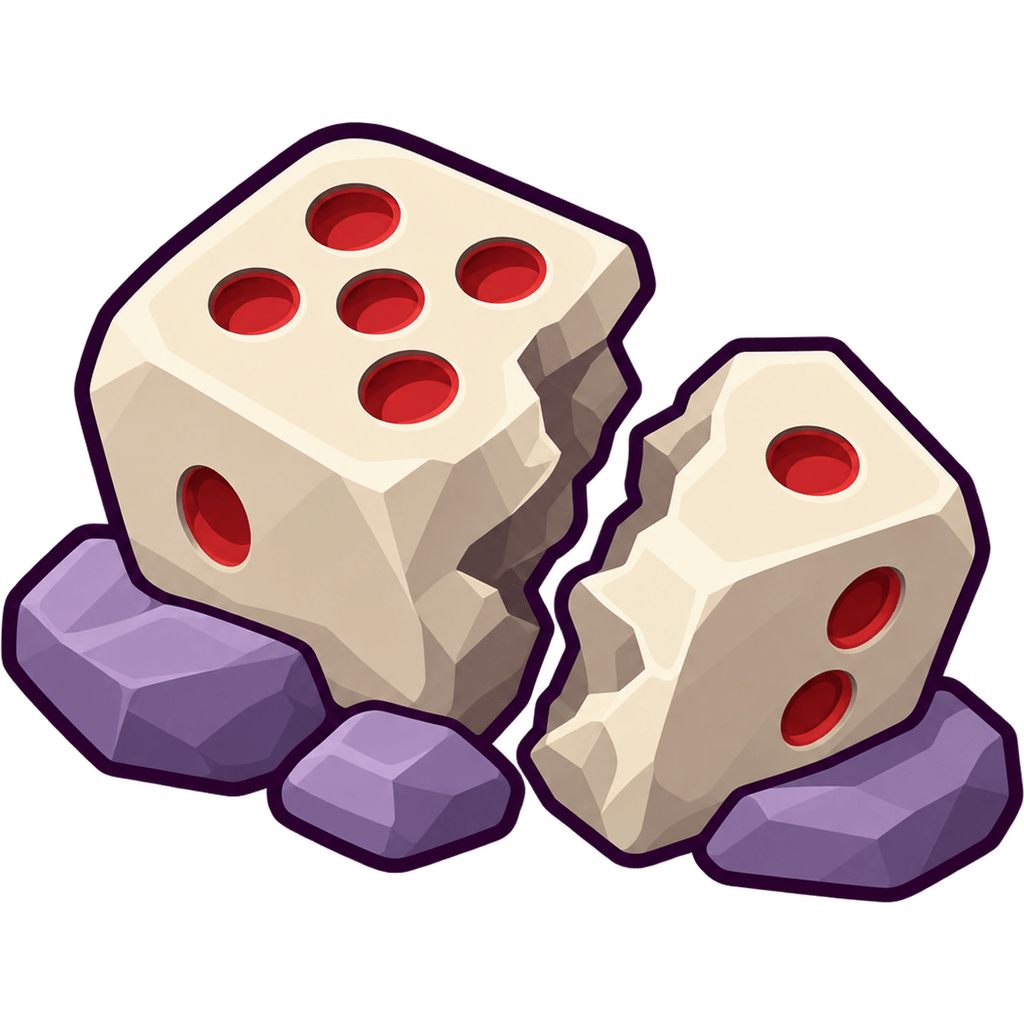
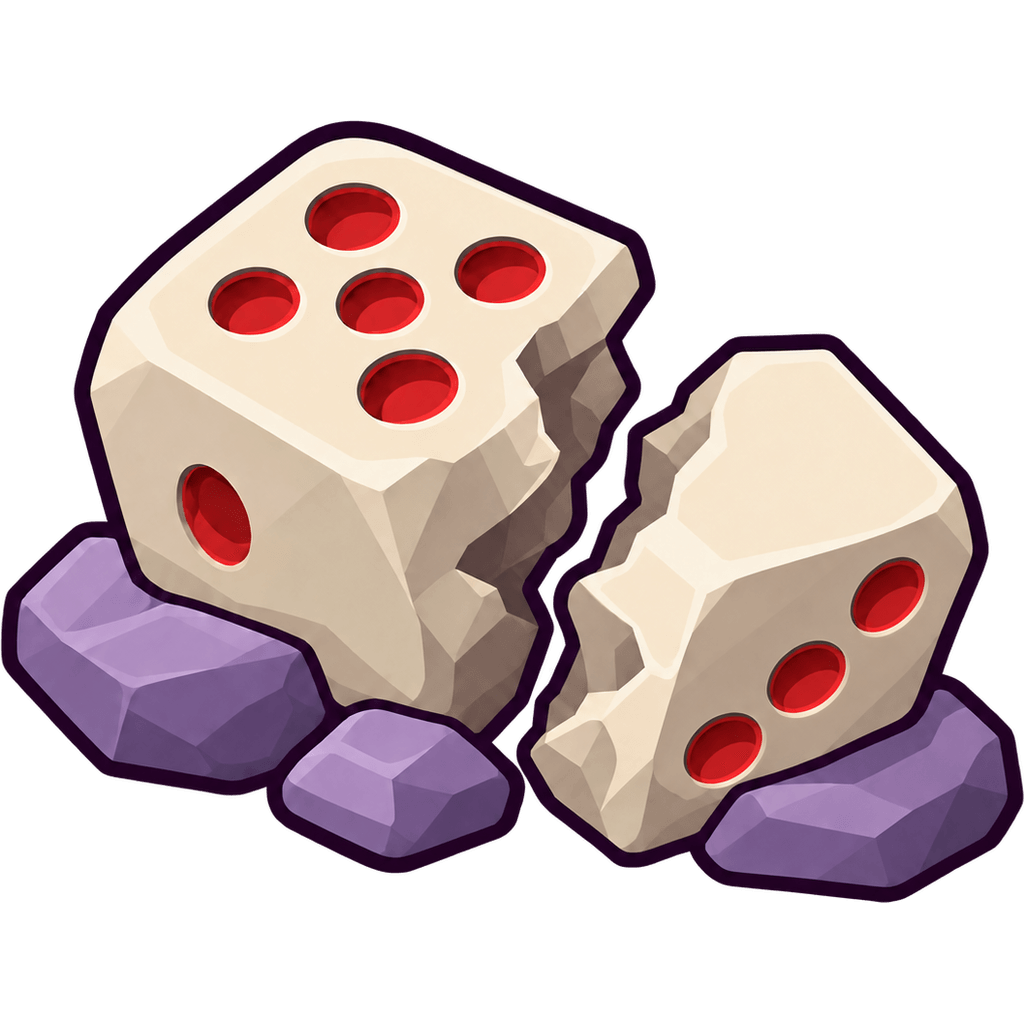
Fix standard D6 faces in title and arena art (#68)

diff --git a/game.js b/game.js
@@ -955,7 +955,7 @@ for (const key of ['tl_arena_floor', 'tl_arena_board', 'tl_arena_road', 'tl_aren
   if (SRCS[key]) SRCS[key] = SRCS[key].replace('?v=casual-world1', '?v=arena-clean1');
 }
 for (const key of ['tl_arena_pad', 'tl_arena_start', 'tl_arena_end', 'tl_arena_prop-1', 'tl_arena_prop-2', 'tl_arena_prop-3']) {
-  if (SRCS[key]) SRCS[key] = SRCS[key].replace(/\?v=[^#]*/, '?v=arena-props-142');
+  if (SRCS[key]) SRCS[key] = SRCS[key].replace(/\?v=[^#]*/, '?v=arena-props-143');
 }
 const A = {};
 let corsBlocked = false;
@@ -6900,7 +6900,7 @@ $('shop-back').addEventListener('click', () => gotoLobby('hub'));
 // Keep the home navigation available throughout the player menus.
 for (const selector of ['#lobby-box', '#shop .screen-box', '#stage-select .screen-box']) {
   const nav = document.createElement('nav'); nav.className = 'menu-navigation'; nav.setAttribute('aria-label', '주요 메뉴');
-  for (const [target, label, art] of [['home','홈','ui/title-keyart-p.jpg?v=casual1'], ['deck','다이스','ui/icon-dice.png'], ['battle','전투','ui/icon-trophy.png'], ['shop','상점','ui/icon-shop.png']]) {
+  for (const [target, label, art] of [['home','홈','ui/title-keyart-p.jpg?v=title-d6-143'], ['deck','다이스','ui/icon-dice.png'], ['battle','전투','ui/icon-trophy.png'], ['shop','상점','ui/icon-shop.png']]) {
     const button = document.createElement('button'); button.type = 'button'; button.dataset.menuTarget = target;
     button.innerHTML = (target === 'home' ? '<svg viewBox="0 0 28 28" aria-hidden="true"><path d="M4 11 14 3l10 8v14h-7v-8h-6v8H4Z"/></svg>' : `<img src="${art}" alt="">`) + `<span>${label}</span>`;
     button.addEventListener('click', () => { audio(); if (target === 'shop') gotoShop(); else { gotoLobby(target === 'home' ? 'hub' : 'single'); if (target === 'deck') openDeckMenu(); } });
@@ -8062,7 +8062,7 @@ function drawLoading(pr) {
 (async () => {
   // 키아트는 로딩 첫 프레임부터 깔린다 (CSS 가 직접 받아온다 — 에셋 로딩을 기다리면 로딩 화면이 검은 화면이 된다)
   // 키아트(산 위 주사위 성)는 CSS 배경으로만 쓴다 — SRCS 에 넣으면 loadAssets 가 두 방향을 다 내려받는다. CSS 는 미디어 쿼리에 맞는 한 장만 받는다
-  const KEYART = { l: BASE + 'ui/title-keyart-l.jpg?v=casual1', p: BASE + 'ui/title-keyart-p.jpg?v=casual1', blur: BASE + 'ui/title-keyart-l-blur.jpg?v=casual1' };   // ?v= 는 index.html 의 preload href 와 같아야 한다 (같은 URL 이어야 미리 받은 걸 쓴다)   // l·p: 글자 없는 그림(세로·가로 모두 CSS 금박 제목을 얹는다) · blur: 가로 양옆 밑바탕
+  const KEYART = { l: BASE + 'ui/title-keyart-l.jpg?v=title-d6-143', p: BASE + 'ui/title-keyart-p.jpg?v=title-d6-143', blur: BASE + 'ui/title-keyart-l-blur.jpg?v=title-d6-143' };   // ?v= 는 index.html 의 preload href 와 같아야 한다 (같은 URL 이어야 미리 받은 걸 쓴다)   // l·p: 글자 없는 그림(세로·가로 모두 CSS 금박 제목을 얹는다) · blur: 가로 양옆 밑바탕
   document.body.style.setProperty('--keyart-bg', `linear-gradient(rgba(5,4,3,.45), rgba(5,4,3,.7)), url('${KEYART.l}')`);
   document.body.style.setProperty('--keyart-title', `linear-gradient(rgba(5,4,3,.10), rgba(5,4,3,.10) 45%, rgba(5,4,3,.82) 100%), url('${KEYART.l}'), url('${KEYART.blur}')`);   // 가로·데스크톱 타이틀: 그림을 높이에 맞춰 통째로 + 양옆은 흐린 밑바탕, 위에 CSS 제목
   document.body.style.setProperty('--keyart-title-p', `linear-gradient(rgba(5,4,3,.04), rgba(5,4,3,.04) 80%, rgba(5,4,3,.55) 100%), url('${KEYART.p}')`);   // 세로 타이틀: 그림의 돌 제목을 그대로, 맨 아래(버튼 자리)만 살짝

diff --git a/index.html b/index.html
@@ -9,15 +9,15 @@
 <title>주사위 성채 (Dicekeep)</title>
 <link rel="stylesheet" href="fonts/fonts.css?v=89" />
 <!-- 키아트를 스크립트보다 먼저 받기 시작한다 (세로/가로 중 화면에 맞는 한 장). game.js 는 이 그림이 뜬 뒤에 에셋 로딩을 시작한다 -->
-<link rel="preload" as="image" href="ui/title-keyart-p.jpg?v=casual1" media="(max-aspect-ratio: 3/4)" fetchpriority="high" />
-<link rel="preload" as="image" href="ui/title-keyart-l.jpg?v=casual1" media="(min-aspect-ratio: 3001/4000)" fetchpriority="high" />
+<link rel="preload" as="image" href="ui/title-keyart-p.jpg?v=title-d6-143" media="(max-aspect-ratio: 3/4)" fetchpriority="high" />
+<link rel="preload" as="image" href="ui/title-keyart-l.jpg?v=title-d6-143" media="(min-aspect-ratio: 3001/4000)" fetchpriority="high" />
 <link rel="stylesheet" href="style.css?v=136" />
 <link rel="stylesheet" href="rewards.css?v=119" />
 <link rel="stylesheet" href="mail-admin.css?v=117" />
-<link rel="stylesheet" href="home.css?v=119" />
-<link rel="stylesheet" href="menus.css?v=129" />
+<link rel="stylesheet" href="home.css?v=143" />
+<link rel="stylesheet" href="menus.css?v=143" />
 <link rel="stylesheet" href="casual-theme.css?v=137" />
-<link rel="stylesheet" href="casual-menus.css?v=137" />
+<link rel="stylesheet" href="casual-menus.css?v=143" />
 <link rel="stylesheet" href="casual-rewards.css?v=137" />
 <link rel="stylesheet" href="casual-hud.css?v=138" />
 <link rel="icon" href="ui/gold.png" />
@@ -420,6 +420,6 @@
 <script src="infinity-art.js?v=107"></script>
 <script src="extreme-cache.js?v=1"></script>
 <script src="combat-motion.js?v=123"></script>
-<script src="game.js?v=142"></script>
+<script src="game.js?v=143"></script>
 </body>
 </html>

diff --git a/home.css b/home.css
@@ -59,7 +59,7 @@
 .home-currency > span { display: flex; flex-direction: column; min-width: 0; }
 .home-currency small { color: #d0c1a6; font-size: 10px; line-height: 1.3; white-space: nowrap; }
 .home-currency b { font-variant-numeric: tabular-nums; font-size: 14px; line-height: 1.45; color: #f6e6c5; white-space: nowrap; overflow: hidden; text-overflow: ellipsis; }
-.home-citadel { position: relative; isolation: isolate; overflow: hidden; flex: 1 0 200px; min-height: 200px; border: 1px solid #716045; border-radius: 11px 11px 4px 4px; background: #292a25 url('ui/title-keyart-p.jpg?v=casual1') center 30% / cover no-repeat; box-shadow: inset 0 0 32px #08070540; }
+.home-citadel { position: relative; isolation: isolate; overflow: hidden; flex: 1 0 200px; min-height: 200px; border: 1px solid #716045; border-radius: 11px 11px 4px 4px; background: #292a25 url('ui/title-keyart-p.jpg?v=title-d6-143') center 30% / cover no-repeat; box-shadow: inset 0 0 32px #08070540; }
 .home-citadel::before { content: ''; position: absolute; inset: 0; z-index: -1; background: linear-gradient(180deg, #13100c66, transparent 45%, #15110de6); pointer-events: none; }
 .home-record { position: absolute; top: 11px; left: 10px; max-width: calc(100% - 94px); display: flex; align-items: center; gap: 4px; filter: drop-shadow(0 1px 2px #090705); }
 .home-record img { width: 29px; height: 29px; object-fit: contain; }

diff --git a/menus.css b/menus.css
@@ -22,7 +22,7 @@
 #lobby-box[data-section="deck"] .menu-navigation [data-menu-target="deck"],
 #lobby-box:not([data-section="deck"]) .menu-navigation [data-menu-target="battle"],
 #shop .menu-navigation [data-menu-target="shop"], #stage-select .menu-navigation [data-menu-target="battle"] { background:#49391f; color:#f2d596; box-shadow:inset 0 2px #d4ad61; }
-.menu-hero { padding:22px 20px; border:1px solid #7c7653; border-radius:14px; min-height:144px; background:linear-gradient(90deg,#142c2bf2,#173b3760),url('ui/title-keyart-l.jpg?v=casual1') center 44%/cover; margin-bottom:14px; }
+.menu-hero { padding:22px 20px; border:1px solid #7c7653; border-radius:14px; min-height:144px; background:linear-gradient(90deg,#142c2bf2,#173b3760),url('ui/title-keyart-l.jpg?v=title-d6-143') center 44%/cover; margin-bottom:14px; }
 .menu-hero small, .menu-shop-banner small { color:#f4d58b; font-size:11px; letter-spacing:.06em; }
 .menu-hero h2 { margin:8px 0; color:#fff0c9; font-size:24px; text-wrap:balance; }
 .menu-hero p { max-width:270px; margin:0; color:#e4e6ca; font-size:13px; line-height:1.65; }

diff --git a/casual-menus.css b/casual-menus.css
@@ -107,7 +107,7 @@
 #lobby-box:not([data-section="deck"]) .menu-navigation [data-menu-target="battle"],
 #shop .menu-navigation [data-menu-target="shop"],
 #stage-select .menu-navigation [data-menu-target="battle"] { color: var(--dk-ui-gold); background: #5d59724d; box-shadow: inset 0 3px var(--dk-ui-gold); }
-.menu-hero { background-image: linear-gradient(90deg,#29354eea,#34465f55), url('ui/title-keyart-l.jpg?v=casual1'); border-color: #a7a2a0; border-radius: 15px; }
+.menu-hero { background-image: linear-gradient(90deg,#29354eea,#34465f55), url('ui/title-keyart-l.jpg?v=title-d6-143'); border-color: #a7a2a0; border-radius: 15px; }
 .menu-hero h2 { color: var(--dk-ui-cream); }
 .menu-hero p { color: #f0e6d1; font-size: 14px; }
 #lobby-single .lobby-inf-btn { color: var(--dk-ui-cream); background: var(--dk-ui-panel); border-color: #9690a4; border-radius: 13px; box-shadow: 0 3px 0 var(--dk-ui-shadow); }

diff --git a/tools/art-review/title-d6-v143/README.md b/tools/art-review/title-d6-v143/README.md
@@ -1,0 +1,16 @@
+# Casual title D6 face correction (v143)
+
+The castle's large six-sided die previously showed five pips beside two. A standard D6 has opposite pairs 1–6, 2–5, and 3–4, so that visible adjacency was impossible. Both the portrait and landscape title paintings now show **five on the broad face and three on the narrow face**. The added center pip matches the existing two, while the castle, flags, sky, landscape, and screen layout remain the same.
+
+The preserved `source-portrait.png` and `source-landscape.png` are edits of `tools/art-review/casual-pilot-2026-09-23/keyart/portrait-candidate-1.png` and `landscape-candidate-1.png`. They were made with the built-in Codex `image_gen` tool, without an API key. The source images are model output and are not regenerated by the script. `promote.mjs` deterministically encodes those two preserved sources into all three game assets:
+
+```sh
+node tools/art-review/title-d6-v143/promote.mjs
+npm run art:manifest
+```
+
+The title art is also used as the home and menu background. Its preloads, CSS references, and runtime URLs share the `title-d6-143` cache key. The blurred landscape file is derived from the same corrected landscape painting.
+
+## Edit prompt
+
+> Use case: precise-object-edit. EDIT the supplied image, which is the game's current CASUAL loading/title background. On the giant ivory six-sided die on the castle roof, KEEP the broad screen-left face at exactly five red recessed pips. Correct ONLY the narrow screen-right adjacent face: it currently has two pips, which is impossible next to a five on a standard D6. Add ONE matching red recessed pip at the exact visual CENTER of that narrow face, between its existing upper and lower pips, so that the narrow face reads exactly THREE pips on a diagonal (upper-right, center, lower-left in the perspective of this image). Standard D6 opposite pairs are 1–6, 2–5, 3–4: five and three can be adjacent. Preserve the shape, perspective, outline, position and size of the die, existing five pips and two side pips, entire castle, blue flags, sky, sun, clouds, hills, path, lighting, clean flat-cel casual style, aspect ratio and every other pixel-level element as closely as possible. Do not change any other part of the image. No text, new objects, watermark, extra pips, duplicate or merged pips.

diff --git a/tools/art-review/casual-pilot-2026-09-23/README.md b/tools/art-review/casual-pilot-2026-09-23/README.md
@@ -5,7 +5,8 @@ account deletion, chat moderation, CI and native extreme-art cache are retained.
 
 Built-in Codex ImageGen source PNGs are preserved here, outside the mobile and
 web deployment payload. `source-manifest.json` records the original generation
-snapshot and hashes; `promotion.json` records the subsequent runtime promotion.
+snapshot and hashes; `promotion.json` is the historical pilot promotion snapshot,
+not the hashes of the current runtime title or tower images.
 No API key was used. A model snapshot is not asserted.
 
 ## Applied
@@ -25,6 +26,10 @@ its before/after comparison remains meaningful after replacement.
 - Muzzle flash: needs directional origin/rotation validation in the renderer.
 - Arena board: rejected because its repeating edges are visible.
 
-Run `node tools/promote-casual-pilot.mjs` from the repository root to reproduce
-the promoted images, then `npm run art:manifest` and `npm run test:art-pipeline`.
+For the current title art run `node tools/art-review/title-d6-v143/promote.mjs`.
+The original pilot can be deliberately replayed with
+`node tools/promote-casual-pilot.mjs --replay-legacy-pilot`, followed by
+`npm run art:manifest`. That replay restores the older tower skin and mail icon,
+so it is not a current-build regeneration command. Its title source uses the
+corrected D6 painting to avoid restoring the impossible 5-beside-2 arrangement.
 The original runtime artwork remains recoverable from git before this commit.

diff --git a/tools/art-review/arena-props-v142/README.md b/tools/art-review/arena-props-v142/README.md
@@ -5,3 +5,5 @@ The shared tower socket, four braziers, four crystal-banner pillars and four bro
 `source-*.png` are the selected full-resolution PNGs made with Codex's built-in image generator. `originals/` preserves the previous runtime art. `prompts.json` records the exact prompts and input reference roles. Run `node tools/promote-arena-props-v142.mjs` to produce the 1024px transparent runtime assets and `promotion.json` containing source/output hashes. The process makes no API call.
 
 `prop-1.png` is intentionally unlit because `drawArenaBraziers` paints the animated flames in front of it. `prop-2.png` remains a corner decoration rather than a playable tower. The placement and combat geometry are unchanged.
+
+The broken D6's face layout was corrected in [dice-face-v143](../dice-face-v143/README.md). Re-running the promotion script uses that corrected source for `prop-3`.

diff --git a/tools/art-review/dice-face-v143/README.md b/tools/art-review/dice-face-v143/README.md
@@ -1,0 +1,5 @@
+# Standard D6 face correction (v143)
+
+The arena broken die and title artwork showed adjacent 5 and 2 faces. On a standard six-sided die, the opposite pairs are 1/6, 2/5 and 3/4, so 5 and 2 cannot meet at an edge. The corrected rubble has 5 on the broad top, 1 on the front and 3 on the right outer face. The smaller fragment's top is an unnumbered broken surface. This preserves one cracked die instead of depicting two complete dice.
+
+`source-arena-prop-3.png` is the selected transparent built-in imagegen edit; `previous-arena-prop-3.png` preserves the prior runtime sprite. `prompts-arena.json` records both edit passes and the input reference roles. Run `node tools/promote-arena-die-v143.mjs` to rebuild the 1024px runtime asset and hash record, with no API key.
